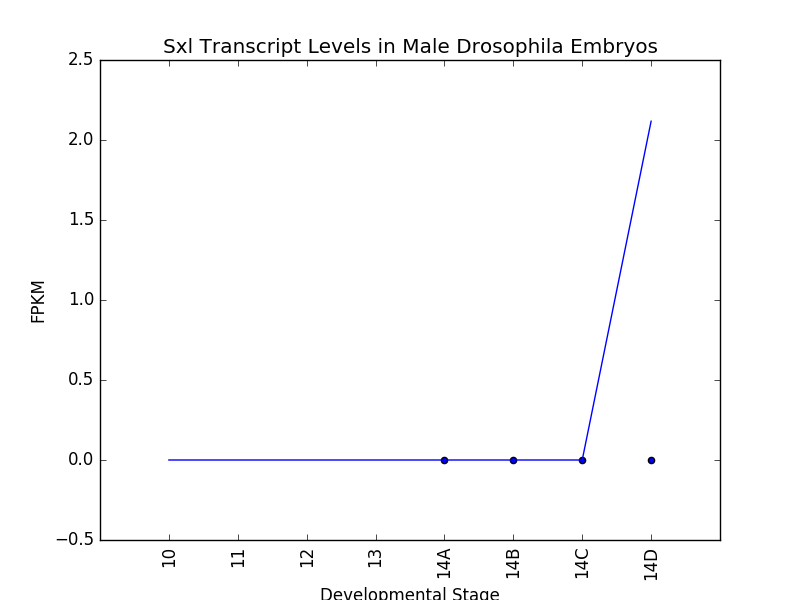
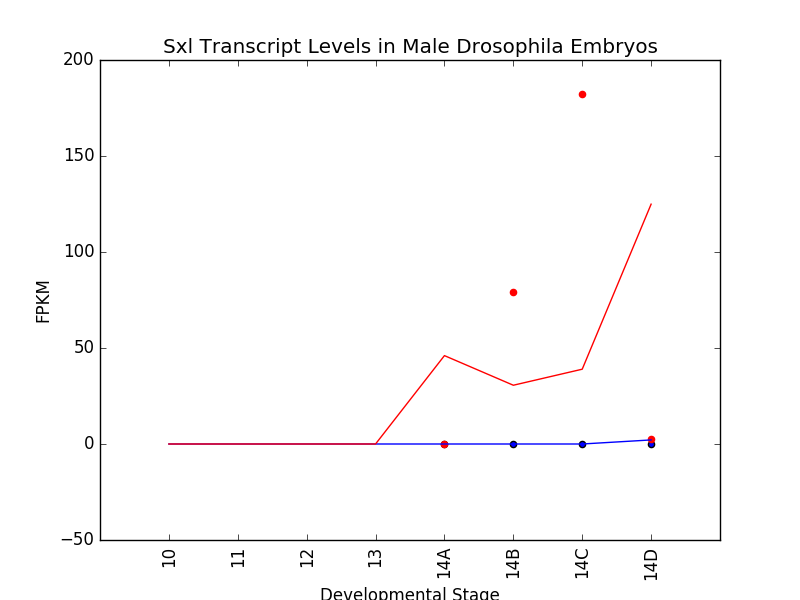
added females

diff --git a/day4-homework/male_reps.py b/day4-homework/male_reps.py
@@ -16,6 +16,9 @@ ctab_dir = sys.argv[3]
 df_rep = df_metarep["sex"] == "male"
 df_newrep = df_metarep[df_rep]
 
+df_roi1 = df_metamain["sex"] == "female"
+df_new1 = df_metamain[df_roi1]
+
 rep_val = []
 for sample in df_newrep[df_rep]["sample"]:
     filename = ctab_dir + sample + "/t_data.ctab"
@@ -23,6 +26,7 @@ for sample in df_newrep[df_rep]["sample"]:
     df_roi2 = df["t_name"]=="FBtr0331261"
     rep_val.append(df[df_roi2]["FPKM"].values)
 male_Sxl = []
+fem_Sxl = []
 male_stage = [4,5,6,7]
 df_roi = df_metamain["sex"] == "male"
 df_new = df_metamain[df_roi]
@@ -33,14 +37,41 @@ for sample in df_metamain[df_roi]["sample"]:
     male_Sxl.append(df[df_roi2]["FPKM"].values)
 xaxis = ["10","11","12","13","14A","14B","14C","14D"]
 
+
+for sample in df_metamain[df_roi1]["sample"]:
+    #this defines the path to the files which are stored in a directory.  Sample name comes from metadata file, so we add that and this will call the t_data.ctab file for that sample
+    filename = ctab_dir + sample + "/t_data.ctab"
+    #use panda to open the ctab table
+    df = pd.read_table(filename)
+    #pull out the transcripts associated with SXL
+    df_roi2 = df["t_name"] == "FBtr0331261"
+    #now we will have dataframes for the transcript
+    #now we append this to the list for all files corresponding female
+    #fem_sxl.append(df[df_roi2]["FPKM"])
+    #NOTE THAT YOU MUST USE .values TO EXTRACT THE VALUES FROM THE SERIES
+    fem_Sxl.append(df[df_roi2]["FPKM"].values)
+
+df_rep = df_metarep["sex"] == "female"
+df_newrep = df_metarep[df_rep]
+rep_val2 = []
+for sample in df_newrep[df_rep]["sample"]:
+    filename = ctab_dir + sample + "/t_data.ctab"
+    df = pd.read_table(filename)
+    df_roi2 = df["t_name"]=="FBtr0331261"
+    rep_val2.append(df[df_roi2]["FPKM"].values)
+
+print fem_Sxl
+
 plt.figure()
 plt.plot(male_Sxl)
+plt.plot(fem_Sxl,color = 'red')
 plt.scatter(male_stage,rep_val)
+plt.scatter(male_stage,rep_val2,color = 'red')
 plt.xticks(range(8), xaxis, rotation = "vertical")
 plt.xlabel("Developmental Stage")
 plt.ylabel("FPKM")
 plt.title("Sxl Transcript Levels in Male Drosophila Embryos")
-plt.savefig("scatterline.png")
+plt.savefig("Sxl_male.png")
 
 plt.close()
     
